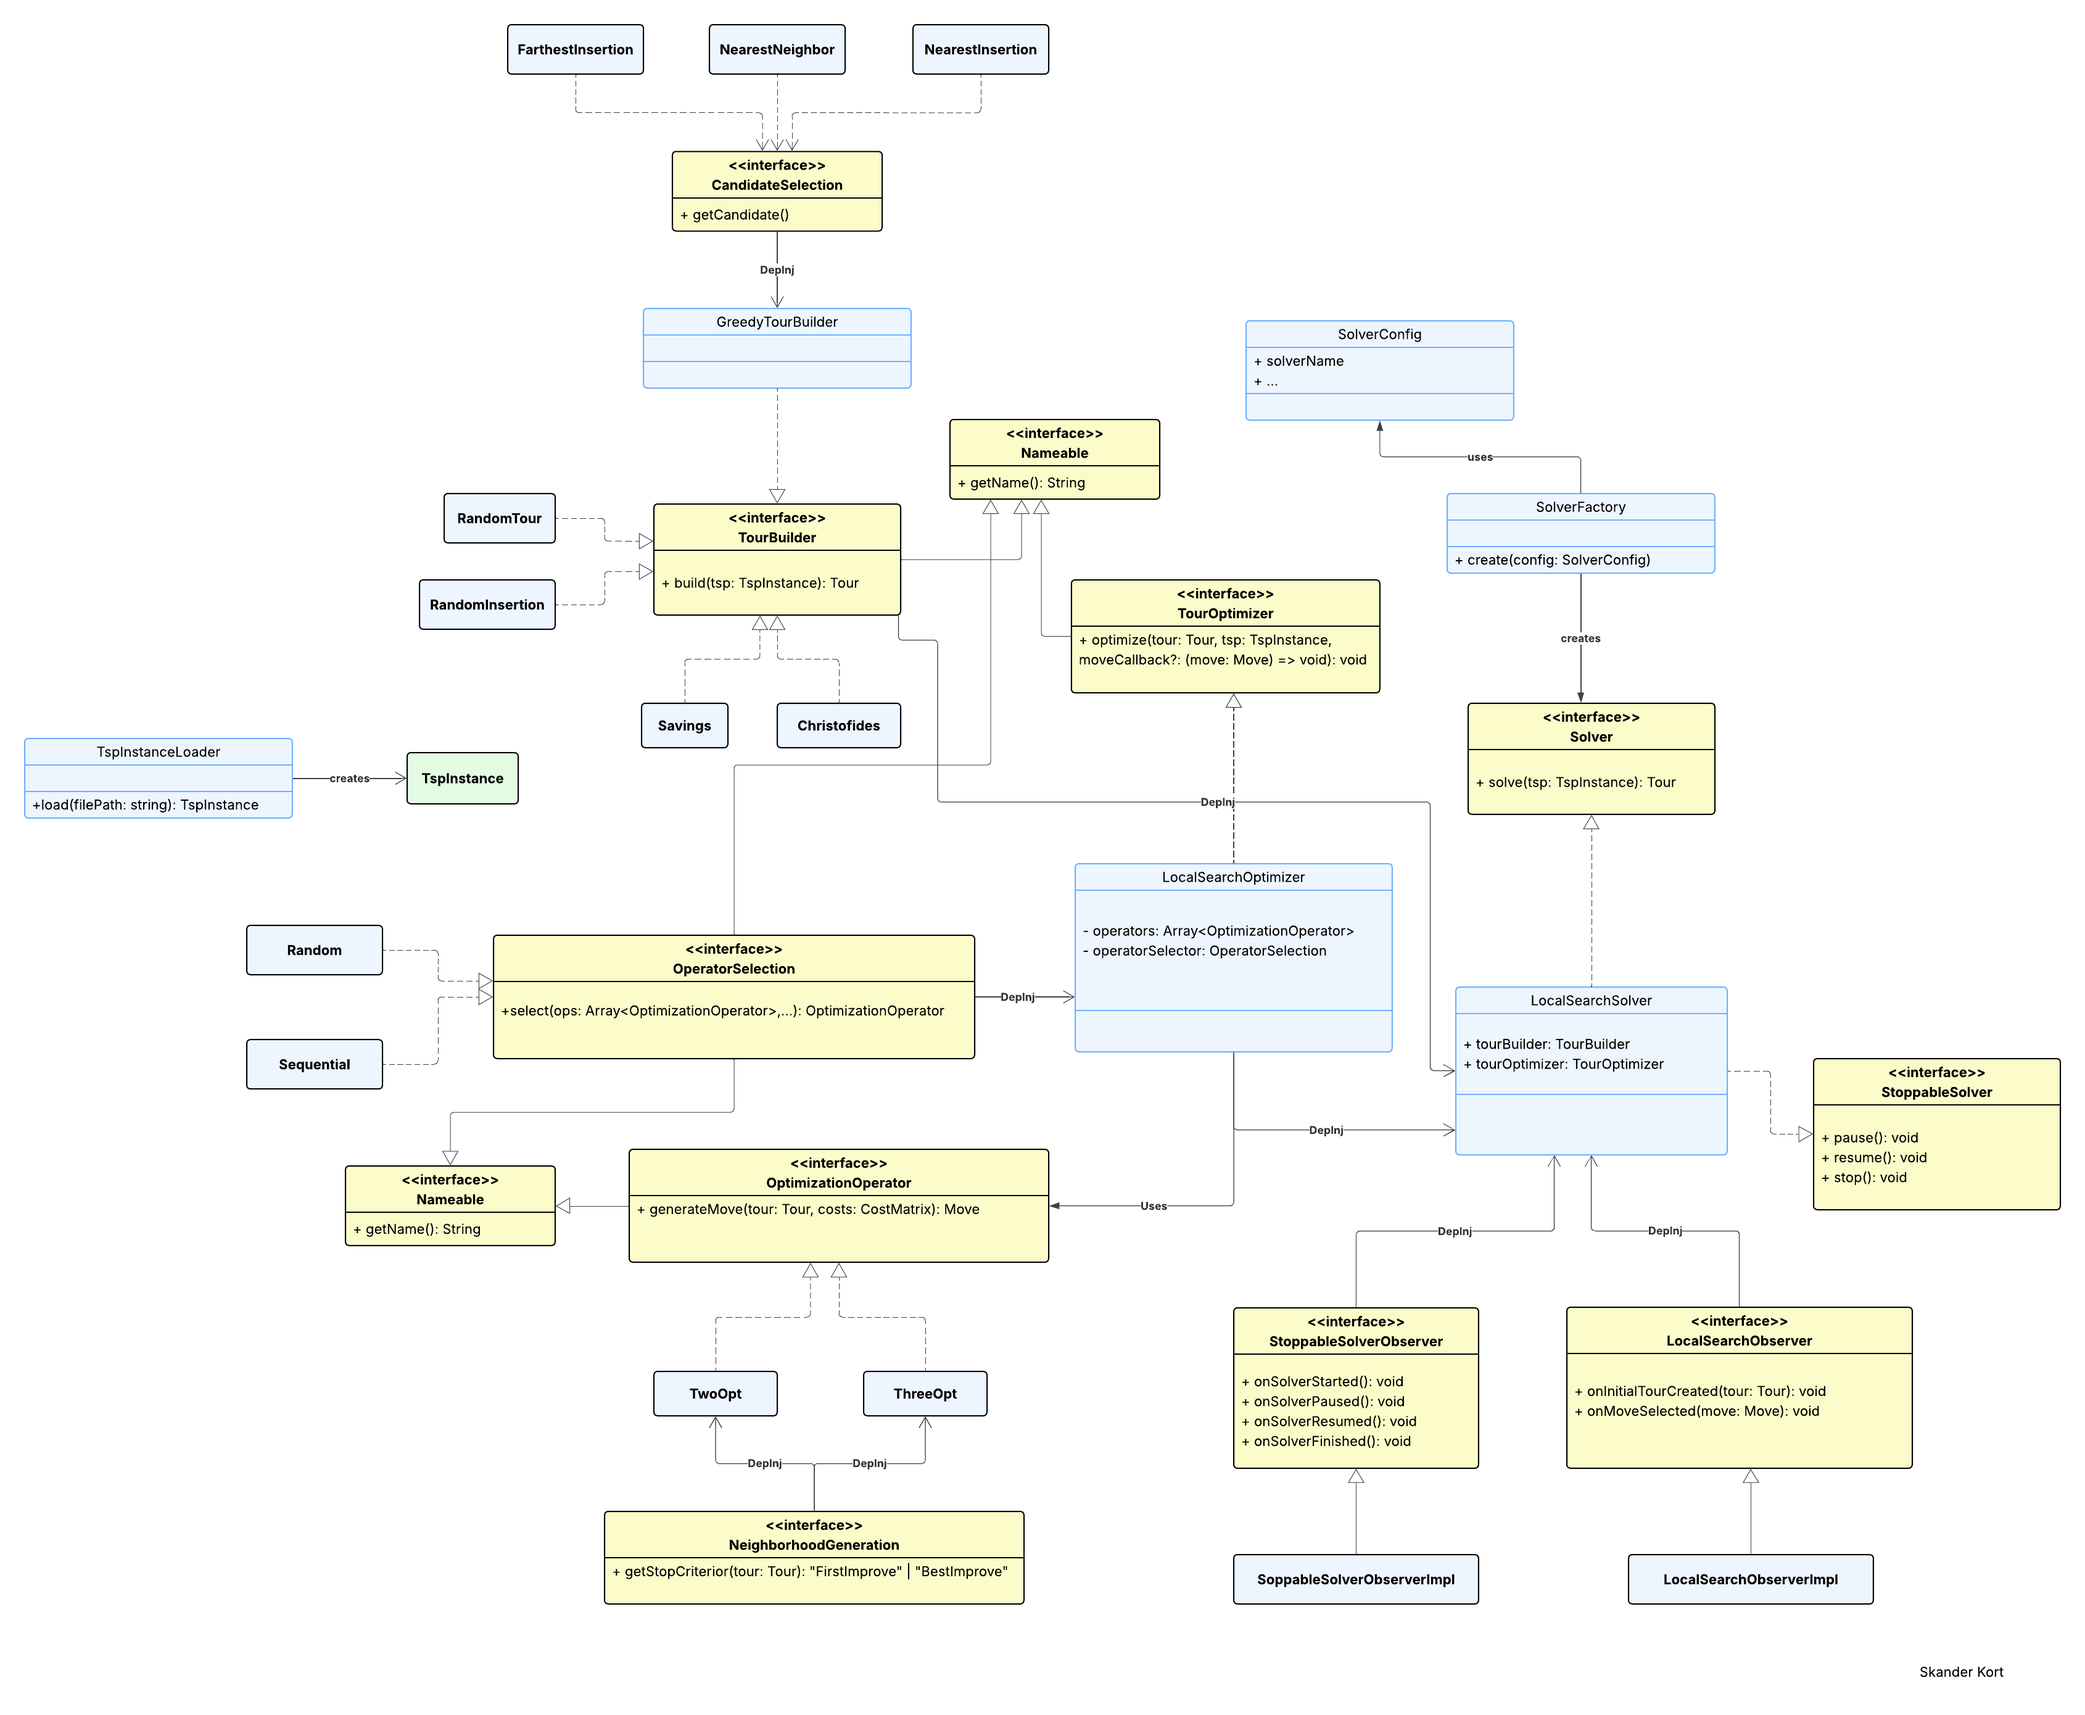
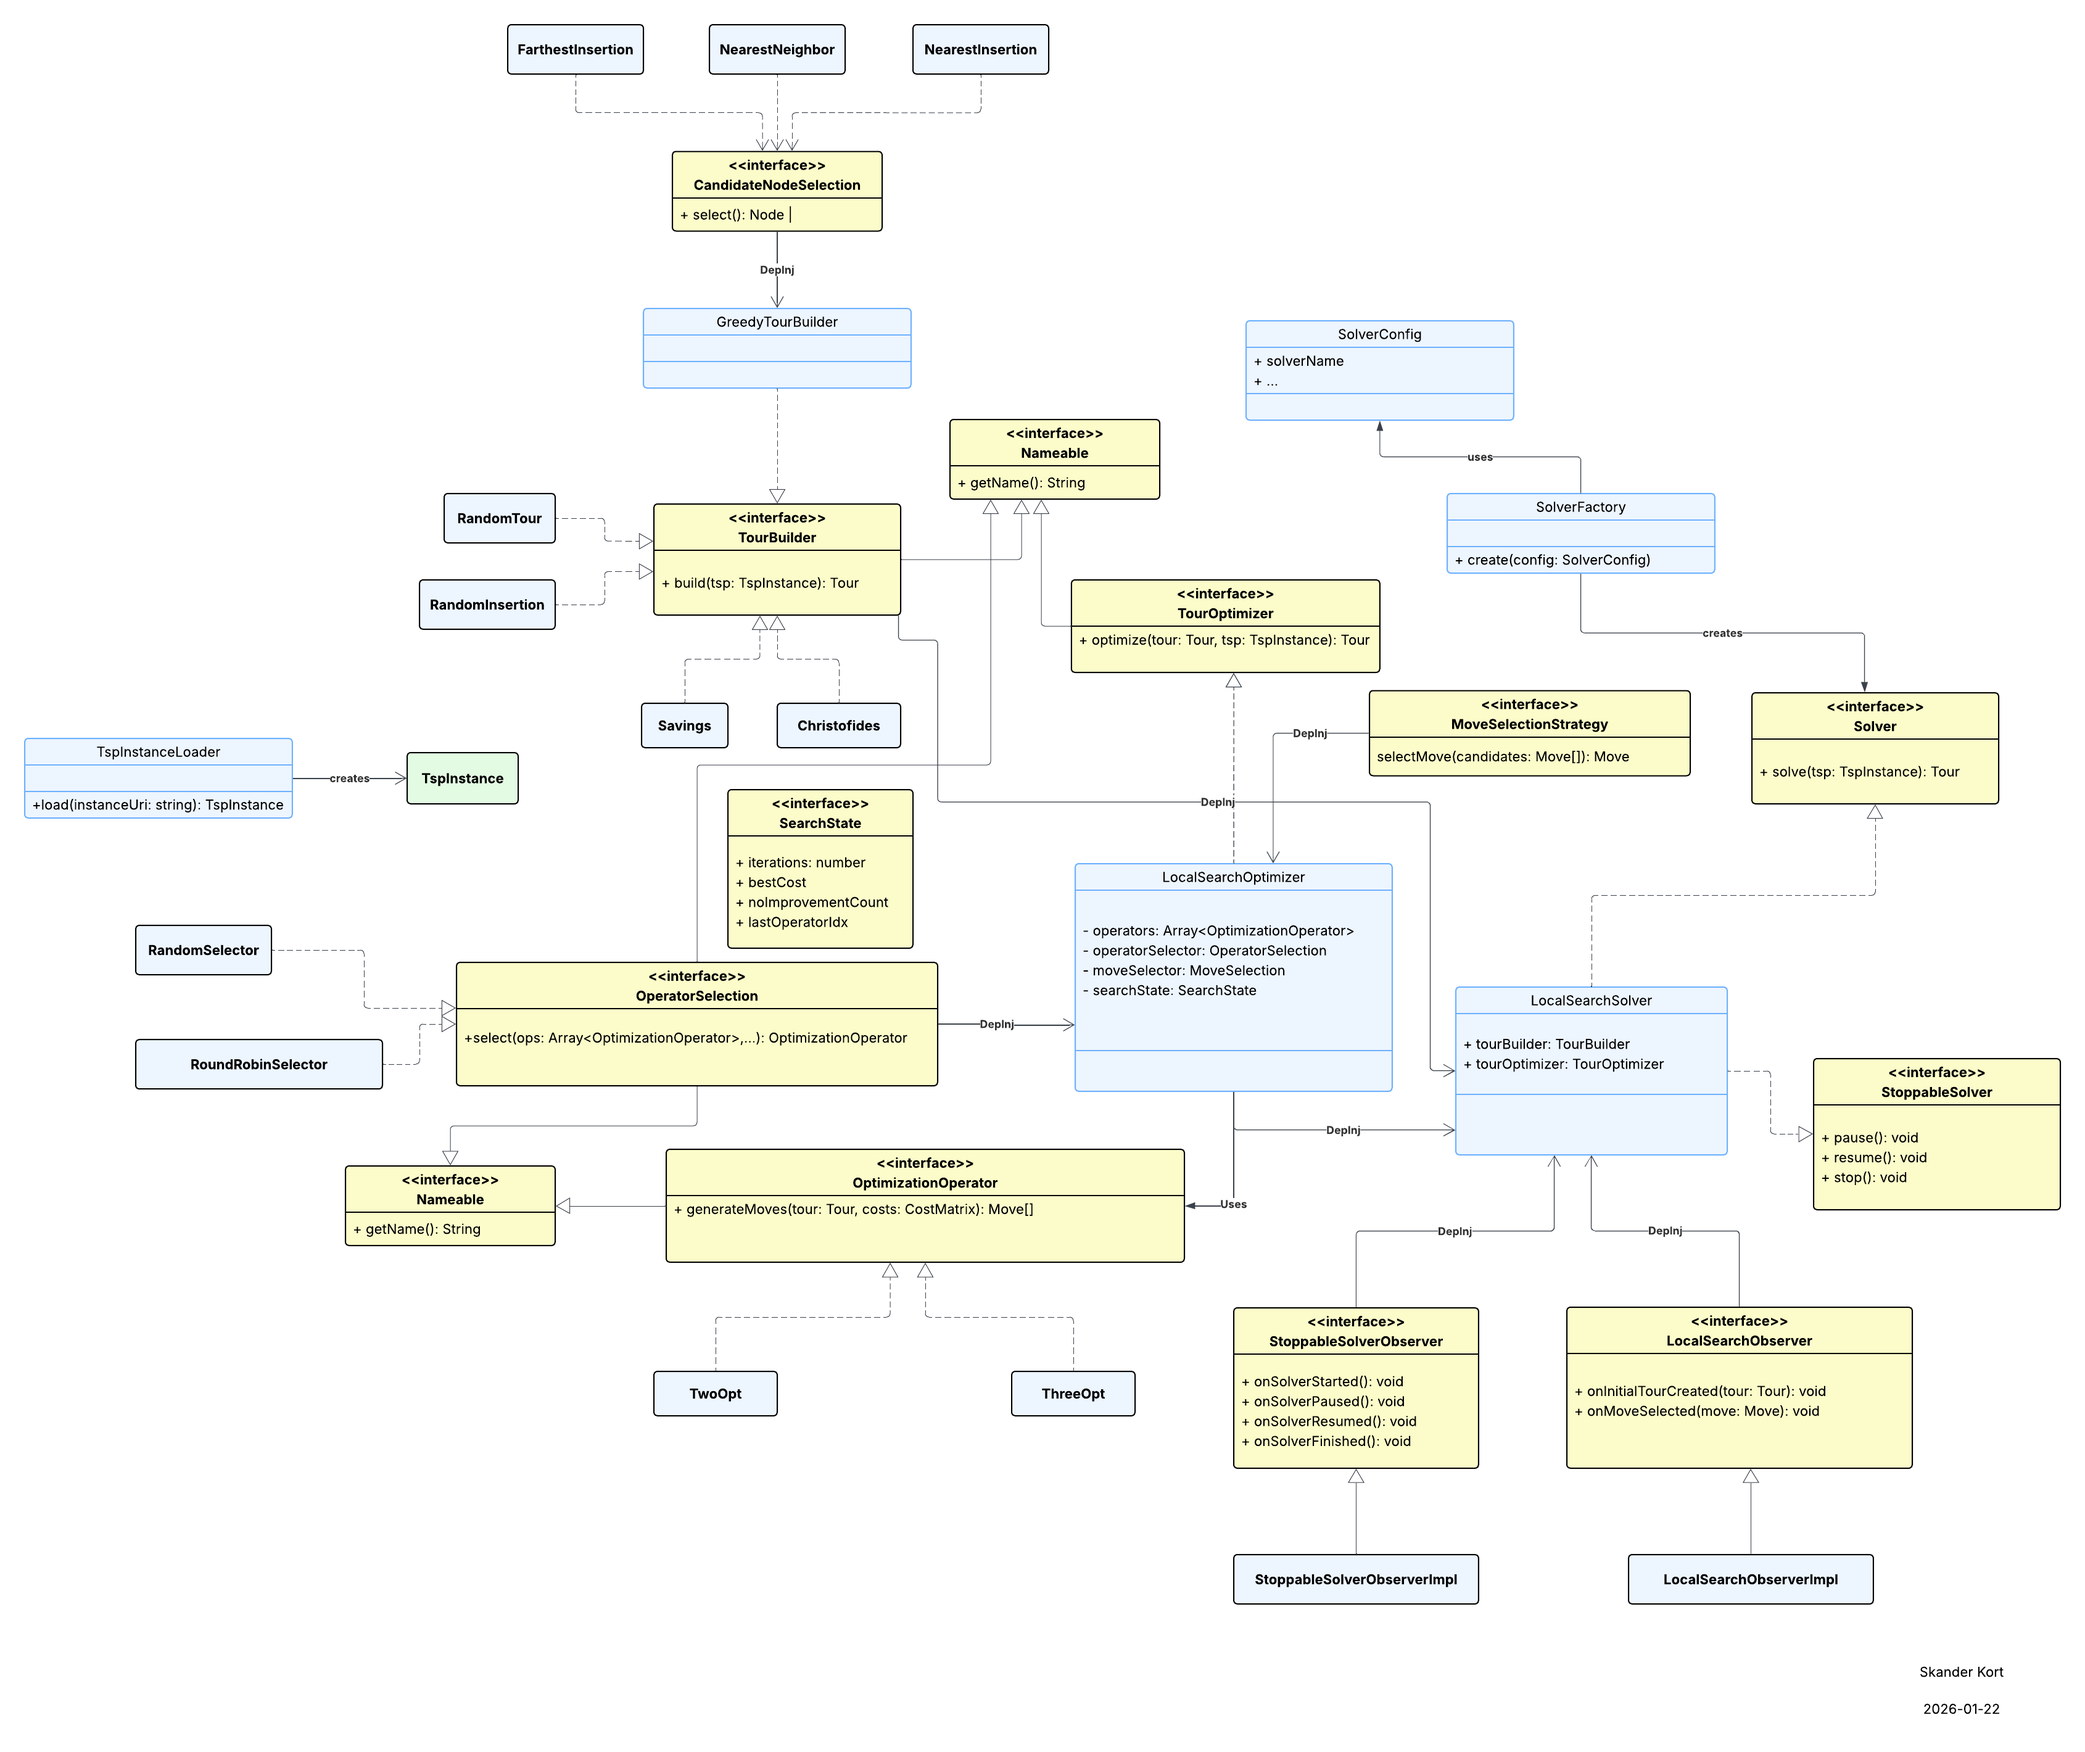
Implemented local search interface.
* Implemented interfaces for tour optimizers, optimization operators,
operator selection strategies, and move selection strategies.
* implemented round robin optimization operator selection strategy.
* implemented random optimization operator selection strategy.

diff --git a/src/tsp/solvers/local-search/tour-optimizer.ts b/src/tsp/solvers/local-search/tour-optimizer.ts
@@ -1,0 +1,181 @@
+/*
+ * Author: Skander Kort
+ * Created: 2026-01-22 10:28:11
+ * Modified: 2026-01-22 14:06:12
+ * 
+ * Licensed under the Apache License, Version 2.0
+ */
+
+import { CostMatrix } from "../../models/cost-matrix";
+import { Tour } from "../../models/tour";
+import type { Nameable } from "../nameable";
+import type { Move } from "../../models/move";
+import type { TspInstance } from "../../models/tsp-instance";
+
+/**
+ * Interface for optimizing a TSP tour.
+ * Implementations should return an improved tour based on the provided TSP instance.
+ *
+ * @param tour - The initial tour to optimize.
+ * @returns A new optimized tour.
+ */
+interface TourOptimizer {
+    optimize(tour: Tour, tspInstance: TspInstance): Tour;
+}
+
+/**
+ * Implementation of a local search tour optimizer.
+ */
+export class LocalSearchOptimizer implements TourOptimizer {
+
+    private searchState: SearchState;
+
+    /**
+     * Creates a new LocalSearchOptimizer given a set of optimization operators 
+     * and an operator selection strategy.
+     */
+    public constructor(
+        private operators: Array<OptimizationOperator>,
+        private operatorSelector: OperatorSelection,
+        private moveSelector: MoveSelectionStrategy) {
+        this.searchState = { ...initSearchState };
+    }
+
+    /**
+     * Iteratively improves the given tour using local search.
+     */
+    optimize(tour: Tour, tspInstance: TspInstance): Tour {
+        // TODO Implementation for local search optimization
+        return tour;
+    }
+
+    public setOperators(operators: Array<OptimizationOperator>) {
+        this.operators = operators;
+    }
+
+    public setOperatorSelector(selector: OperatorSelection) {
+        this.operatorSelector = selector;
+    }
+
+    public setMoveSelector(selector: MoveSelectionStrategy) {
+        this.moveSelector = selector;
+    }
+}
+
+/**
+ * Interface for optimization operators.
+ */
+export interface OptimizationOperator extends Nameable {
+    /**
+     * Generates the moves to apply to the given tour. 
+     * Does not modify the tour.
+     * @returns An array of moves. These can be improving or non-improving moves, 
+     * depending on the operator logic.
+     */
+    generateMoves(tour: Tour, costs: CostMatrix,
+    ): Move[];
+}
+
+
+/**
+ * Two-opt optimization operator.
+ */
+export class TwoOpt implements OptimizationOperator {
+    name: string = '2-opt';
+
+    /**
+     * @inheritdoc
+     */
+    generateMoves(
+        tour: Tour, costs: CostMatrix): Move[] {
+        // TODO Implementation for creating a 2-opt move
+        return [];
+    }
+}
+
+/**
+ * Three-opt optimization operator.
+ */
+export class ThreeOpt implements OptimizationOperator {
+    name: string = '3-opt';
+
+    /**
+     * @inheritdoc
+     */
+    generateMoves(
+        tour: Tour,
+        costs: CostMatrix,): Move[] {
+        // TODO Implementation for creating a 3-opt move
+        return [];
+    }
+}
+
+
+/**
+ * Interface for operator selection strategies.
+ */
+export interface OperatorSelection extends Nameable {
+    selectOperator(operators: Array<OptimizationOperator>, searchState: SearchState): OptimizationOperatorIndex;
+}
+
+export type OptimizationOperatorIndex = number;
+
+/**
+ * Selects the next operator in <operators> based on a round-robin strategy.
+ * Precondition: operators.length >= 1
+ */
+export class RoundRobinSelector implements OperatorSelection {
+    name: string = 'Round Robin';
+
+    selectOperator(operators: Array<OptimizationOperator>, searchState: SearchState): OptimizationOperatorIndex {
+        const selectedIdx = (searchState.lastOperatorIdx + 1) % operators.length;
+
+        return selectedIdx;
+    }
+}
+
+/**
+ * Selects a random operator from <operators>.
+ * Precondition: operators.length >= 1
+ */
+export class RandomSelector implements OperatorSelection {
+    name: string = 'Random Selection';
+
+    selectOperator(operators: Array<OptimizationOperator>, searchState: SearchState): OptimizationOperatorIndex {
+        if (operators.length <= 1) {
+            return 0;
+        }
+
+        let selectedIdx = Math.floor(Math.random() * operators.length);
+        while (selectedIdx === searchState.lastOperatorIdx) {
+            selectedIdx = Math.floor(Math.random() * operators.length);
+        }
+
+        return selectedIdx;
+    }
+}
+
+/**
+ * Type for move selection strategies. Tells an optimization operator which move to select.
+ */
+export interface MoveSelectionStrategy {
+    selectMove(candidates: Move[]): Move | null;
+}
+
+/**
+ * Interface for tracking the state of the search process.
+ */
+export interface SearchState {
+    iterations: number;
+    bestCost: number;
+    noImprovementCount: number;
+    lastOperatorIdx: number;
+}
+
+
+const initSearchState: SearchState = {
+    iterations: 0,
+    bestCost: Infinity,
+    noImprovementCount: 0,
+    lastOperatorIdx: -1
+};

diff --git a/src/tsp/solvers/local-search/tour-builders/tour-building.ts b/src/tsp/solvers/local-search/tour-builders/tour-building.ts
@@ -1,21 +1,14 @@
 /*
  * Author: Skander Kort
  * Created: 2026-01-20 18:21:52
- * Modified: 2026-01-20 18:56:34
+ * Modified: 2026-01-22 14:06:36
  * 
  * Licensed under the Apache License, Version 2.0
  */
 
-
 import { TspInstance } from "../../../models/tsp-instance";
 import { Tour } from "../../../models/tour";
-
-/**
- * Interface for nameable entities.
- */
-export interface Nameable {
-    name: string;
-}
+import type { Nameable } from "../../nameable";
 
 /**
  * Interface for building a TSP tour from a TSP instance.

diff --git a/src/tsp/solvers/nameable.ts b/src/tsp/solvers/nameable.ts
@@ -1,0 +1,14 @@
+/*
+ * Author: Skander Kort
+ * Created: 2026-01-22 12:06:37
+ * Modified: 2026-01-22 14:05:56
+ * 
+ * Licensed under the Apache License, Version 2.0
+ */
+
+/**
+ * Interface for nameable entities.
+ */
+export interface Nameable {
+    name: string;
+}
